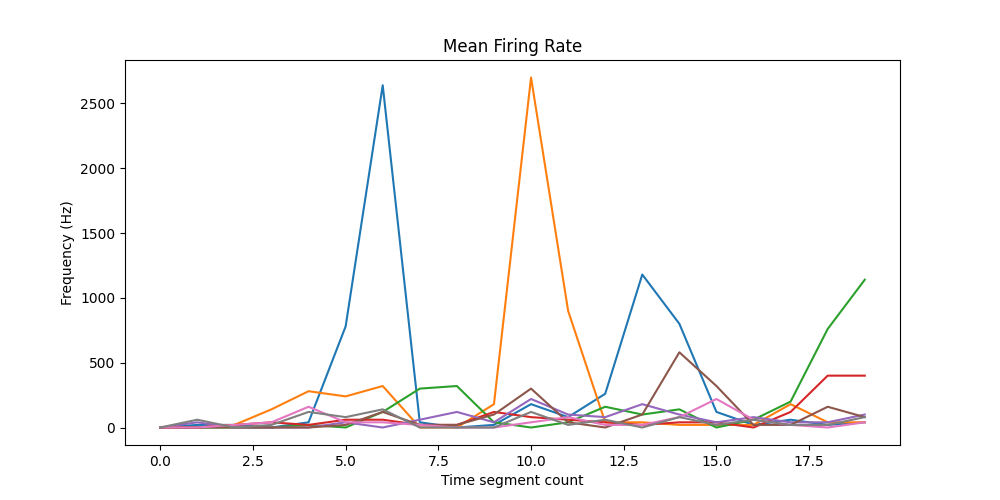
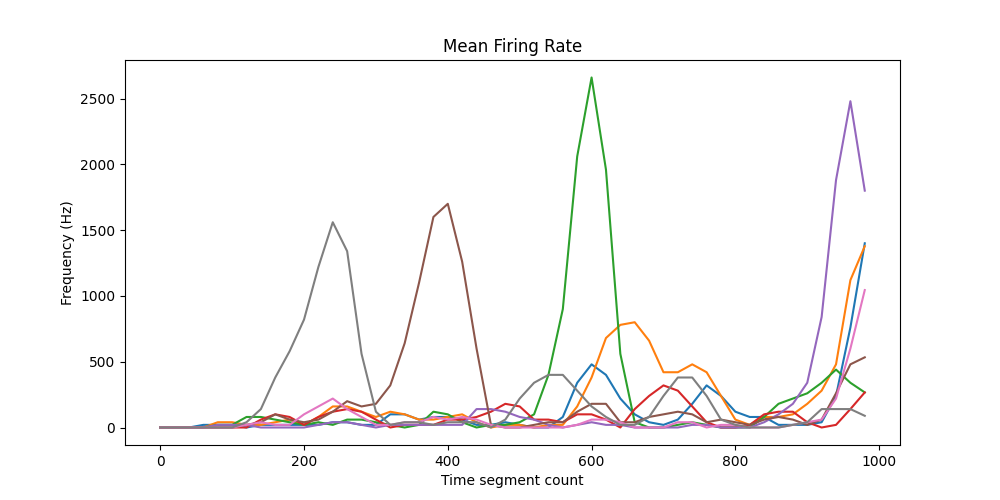
fix mean fire rate incomplete window

diff --git a/utils/swm_network.py b/utils/swm_network.py
@@ -77,7 +77,7 @@ class SWMNetwork:
             [zero_block for _ in range(0, i)] + [create_EE_block(self.ee_m_neurons, self.ee_m_edges) * F_EE] + [zero_block for _ in range(i+1, self.modules_num)] + [EI_blocks[i]] for i in range(self.modules_num)
         ] + [IE_blocks + [II_block]])
 
-        plot_weight_matrix(W)
+        # plot_weight_matrix(W)
 
         # generate D matrix
         D = dmax*np.ones((self.N, self.N), dtype=int)
@@ -85,7 +85,7 @@ class SWMNetwork:
         D[:ee_matrix, :ee_matrix] = 1 + np.random.random(size=(ee_matrix, ee_matrix)) * 19 # random delay between 1ms and 20ms
 
         self._rewire(W, p)
-        plot_weight_matrix(W, "static/weight_rewired.png")
+        # plot_weight_matrix(W, "static/weight_rewired.png")
 
         self.net.setParameters(a, b, c, d)
         self.net.setDelays(D)
@@ -121,23 +121,32 @@ class SWMNetwork:
                         n_avail -= 1
                         W[j, k] = 0
                         W[j, t] = current_weight
+
+
+    def mean_firing_rate(self, spike_counts, step_size=20):
+        half_window = int(spike_counts.shape[1]/step_size/2)
+        mean_firing_rates = []
+        for i in range(0, spike_counts.shape[1], step_size):
+            mean_firing_rates.append(np.mean(spike_counts[:, max(0, i-half_window):min(spike_counts.shape[1],i+half_window)], axis=1) * 1000)
+        return np.array(mean_firing_rates).T
             
-    def simulate(self, period=1000, window_length=50):
+
+    def simulate(self, period=1000):
         ntot_neurons = self.ee_m_neurons * self.modules_num + self.i_neurons
         fire_time = []
         fire_num = []
-        spike_counts = np.zeros((self.modules_num, int(period/window_length)))
+        spike_counts = np.zeros((self.modules_num, period))
         ps_dtbn = np.random.poisson(lam=0.01, size=(ntot_neurons, period))
         for t in range(period):
             I = 15 * ps_dtbn[:, t]
             self.net.setCurrent(I)
-            window = t // window_length
-            for i in filter(lambda n: n < self.modules_num*self.ee_m_neurons, self.net.update()):
+            for i in filter(lambda n: n < self.modules_num * self.ee_m_neurons, self.net.update()):
                 fire_time.append(t)
                 fire_num.append(i)
                 module = i // 100
-                spike_counts[module, window] += 1
-        spike_counts /= (window_length/1000)
+                spike_counts[module, t] += 1
+        
+        fire_rate = self.mean_firing_rate(spike_counts)            
         plt.title("Raster plot")
         plt.figure(figsize=(10, 5))
         plt.xlabel("Time (ms)")
@@ -149,7 +158,7 @@ class SWMNetwork:
         plt.ylabel("Frequency (Hz)")
         plt.xlabel("Time segment count")
         for n in range(self.modules_num):
-            plt.plot(range(spike_counts.shape[1]), spike_counts[n, :])
+            plt.plot(range(0, period, 20), fire_rate[n, :])
         plt.savefig("static/fire-rate.png")             
 
 if __name__ == "__main__":
